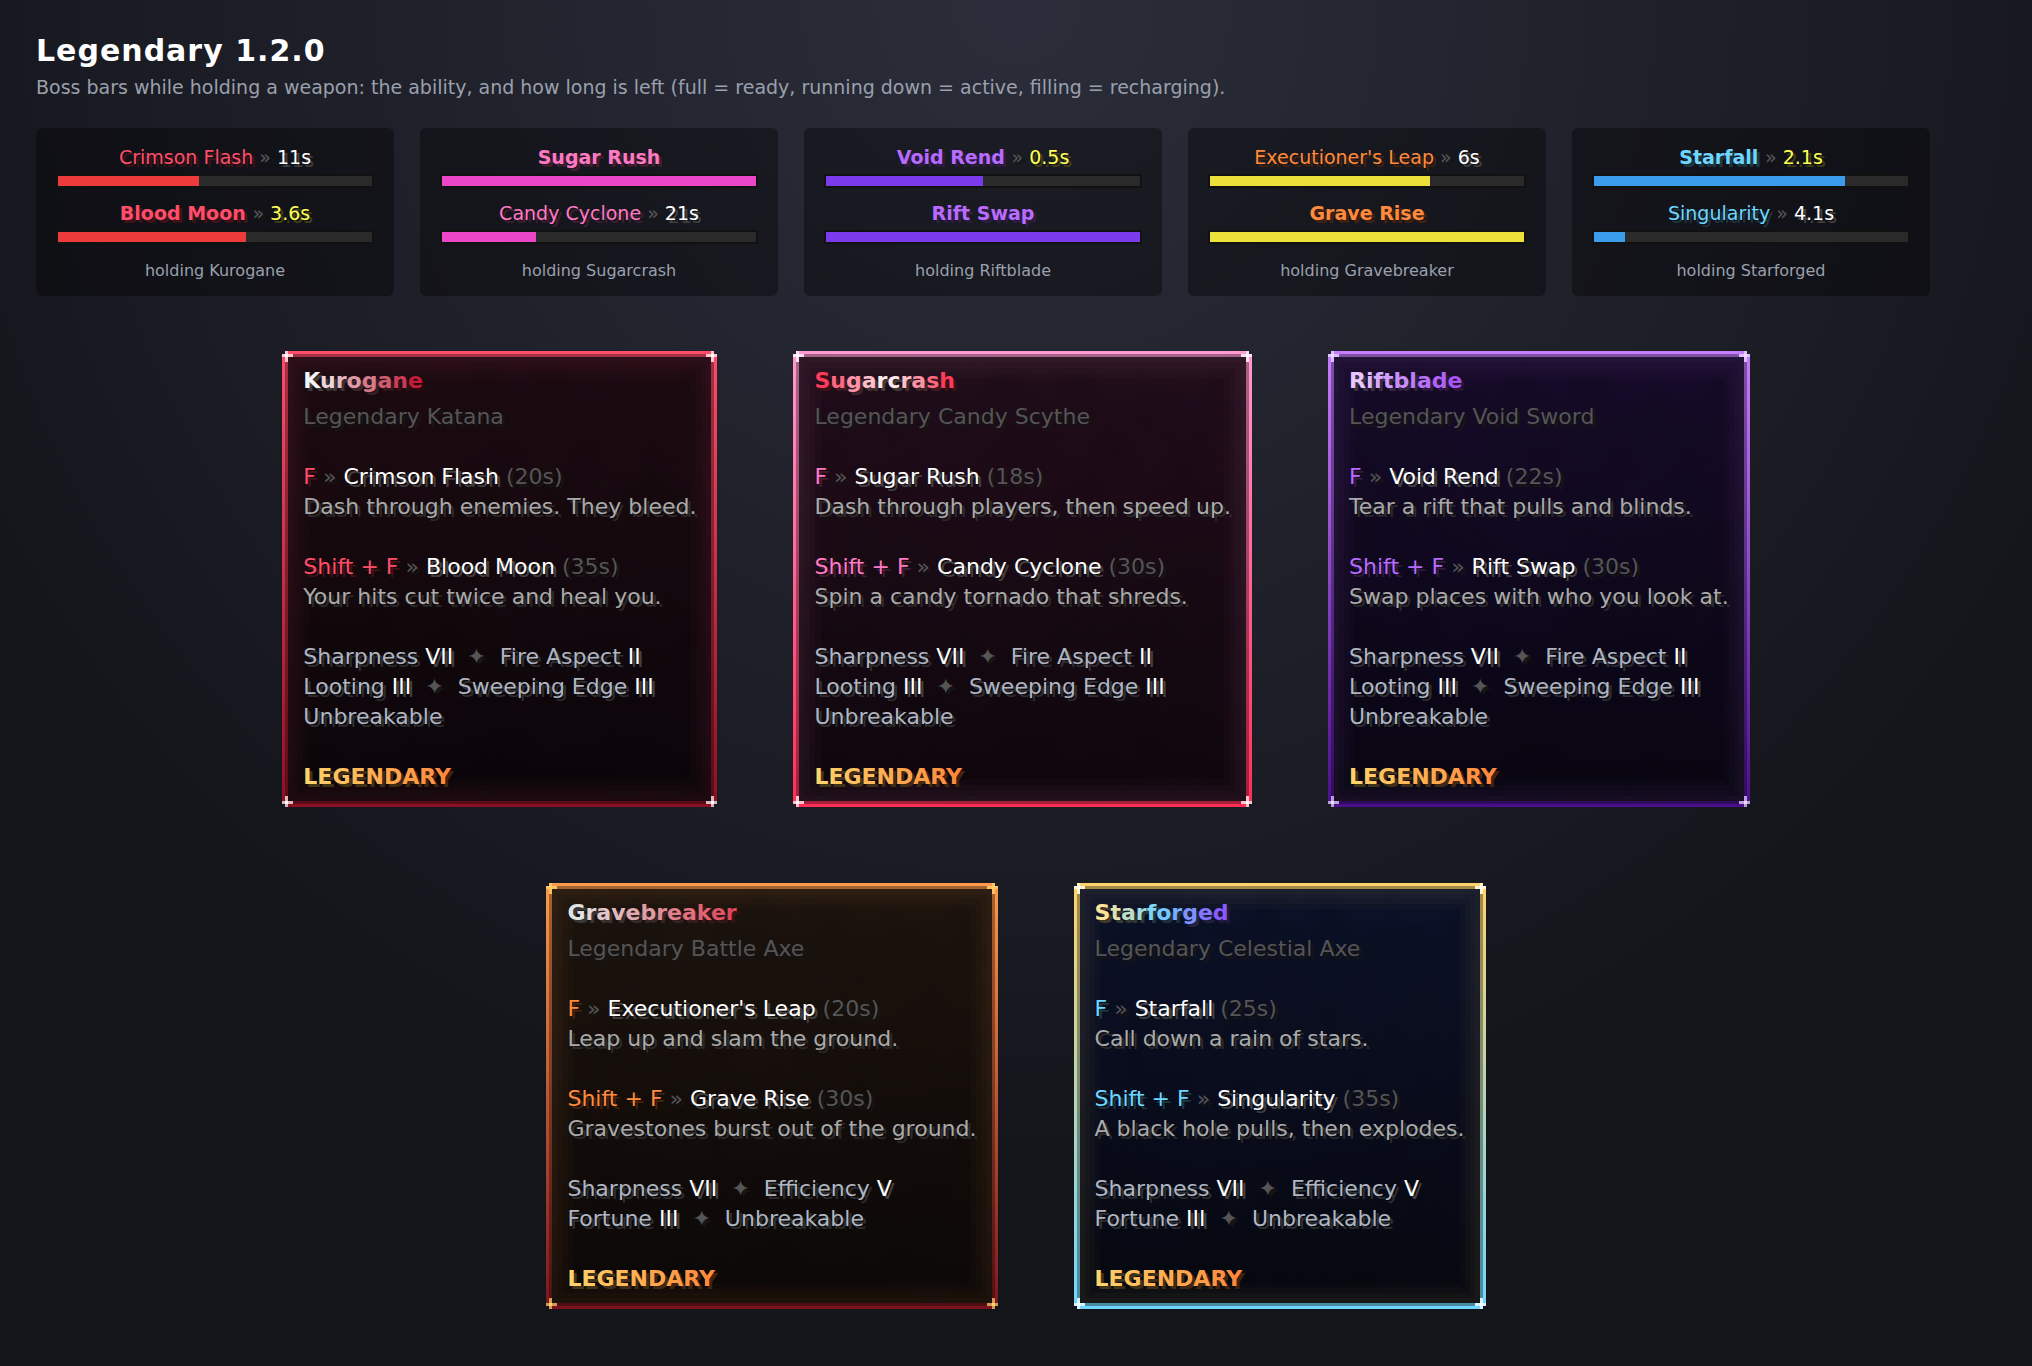
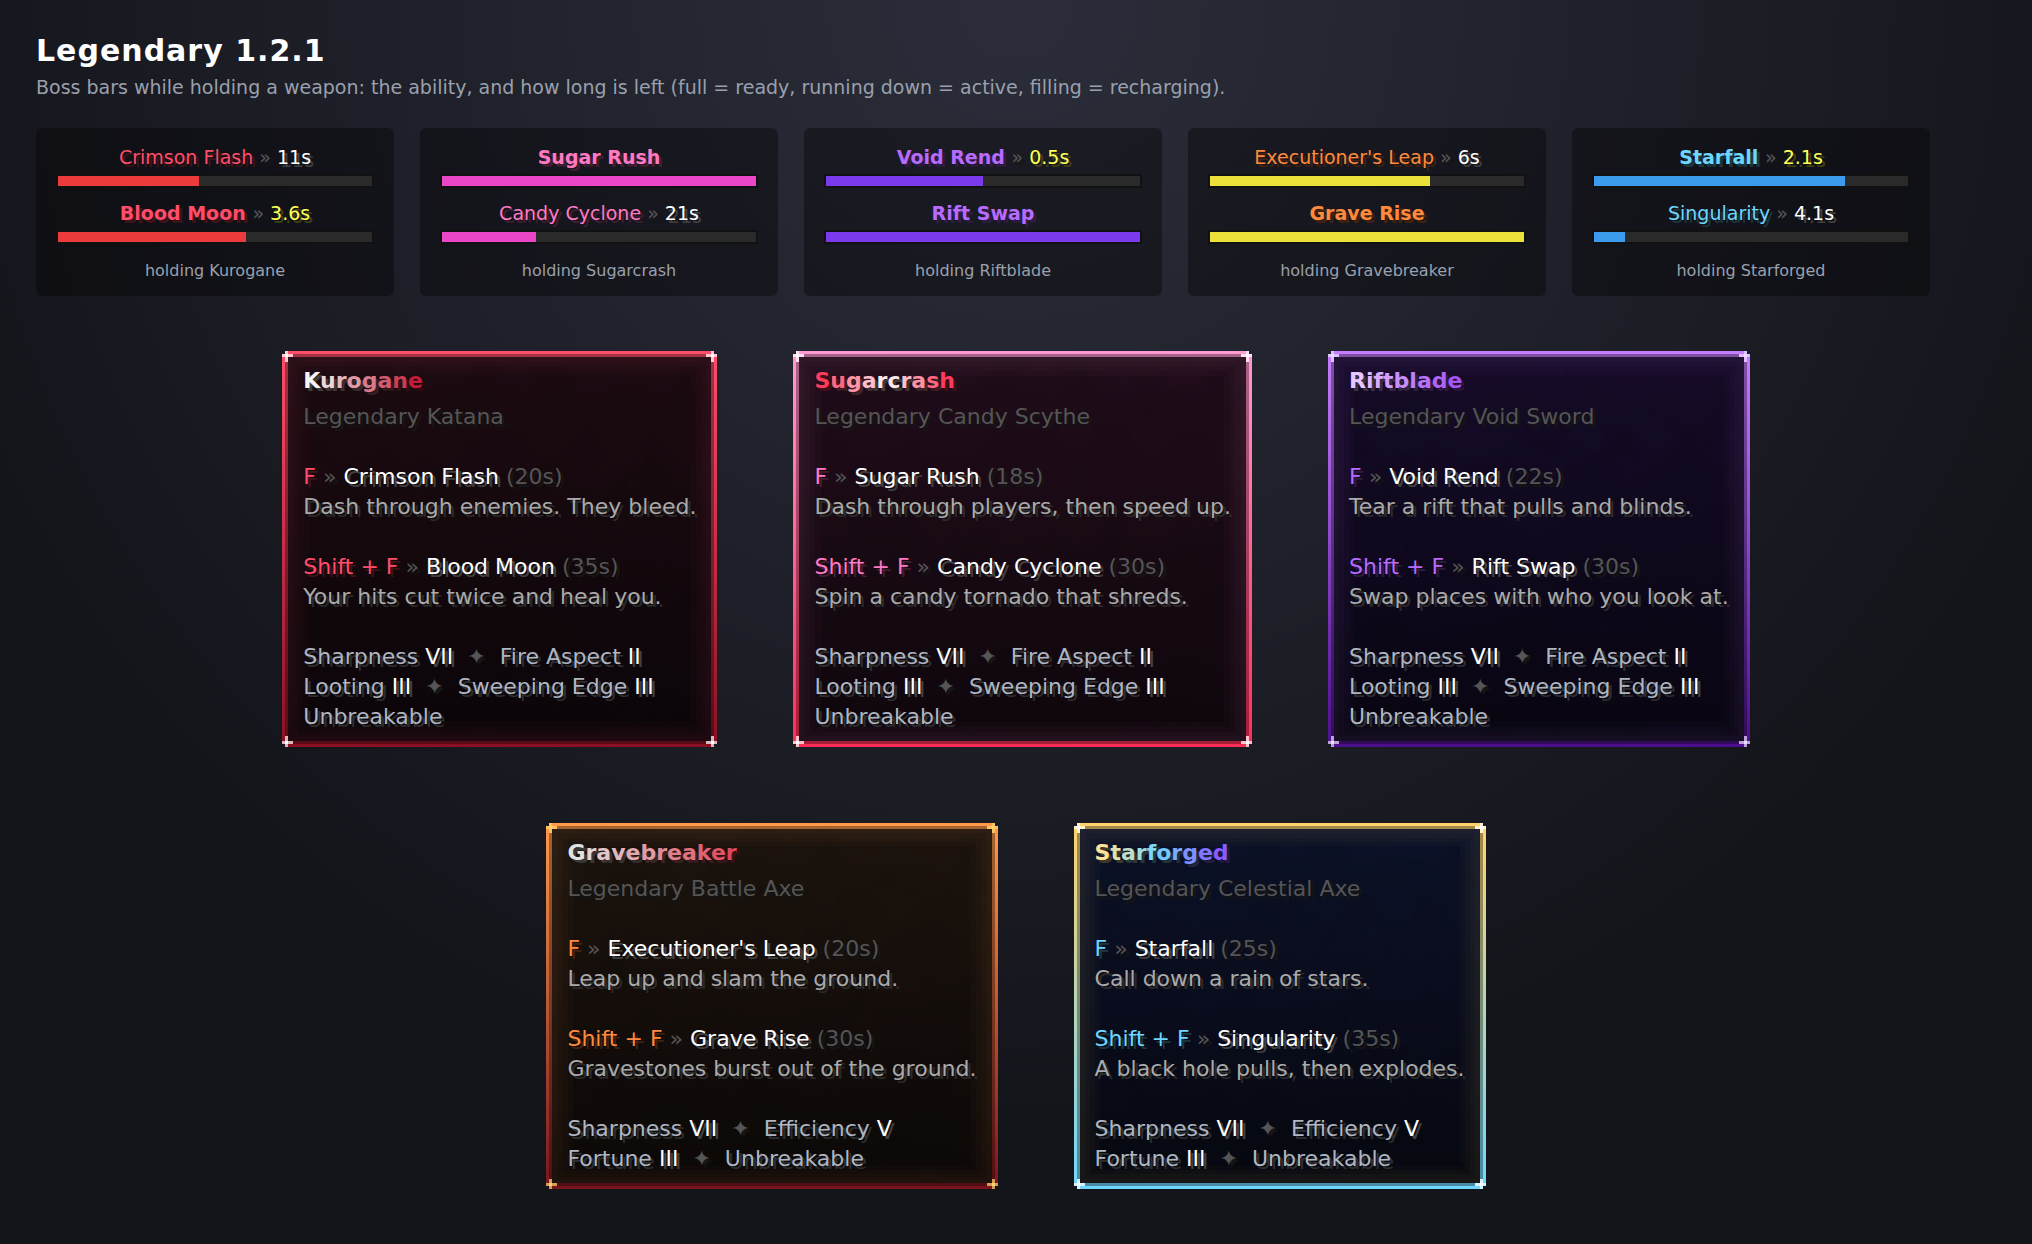
Legendary 1.2.1: no LEGENDARY line at the bottom of the weapons' lore
The lore now ends with the enchantment lines. Servers already on 1.2.0 get the
new lore on start (the 1.2.0 lore is in previous-text.yml); own lore is kept.

Claude-Session: https://claude.ai/code/session_01TN9w381VbN88rgG13wJHTN

diff --git a/legendary/src/test/java/io/github/drepfy/legendary/LegendaryTest.java b/legendary/src/test/java/io/github/drepfy/legendary/LegendaryTest.java
@@ -342,6 +342,7 @@ class LegendaryTest {
             assertTrue(lore.contains("Sharpness VII") && lore.contains("Unbreakable"), lore);
             assertTrue(lore.contains(axe ? "Efficiency V" : "Sweeping Edge III"), lore);
             assertFalse(lore.contains(WeaponItems.shortId(id(item))), "no tracking number in the lore");
+            assertFalse(lore.contains("LEGENDARY"), "no LEGENDARY line at the bottom");
             assertEquals(WeaponRecord.State.HELD, record(item).state());
             assertEquals(steve.getUniqueId(), record(item).holder());
             ids.add(id(item));
@@ -1269,6 +1270,8 @@ class LegendaryTest {
         // ...and one written by 1.1.0, before the abilities changed.
         plugin.getConfig().set("weapons.riftblade.lore", old.getStringList("v1_1_0.weapons.riftblade.lore"));
         plugin.getConfig().set("weapons.riftblade.name", old.getString("v1_1_0.weapons.riftblade.name"));
+        // ...and one written by 1.2.0, with LEGENDARY at the bottom.
+        plugin.getConfig().set("weapons.gravebreaker.lore", old.getStringList("v1_2_0.weapons.gravebreaker.lore"));
         // But this server wrote its own Starforged lore and alt message.
         plugin.getConfig().set("weapons.starforged.lore", List.of("&bMy own lore"));
         plugin.getConfig().set("messages.alt-blocked", "&cNo alts!");
@@ -1277,7 +1280,7 @@ class LegendaryTest {
 
         plugin.reload();
         List<String> lore = plugin.getConfig().getStringList("weapons.kurogane.lore");
-        assertEquals(11, lore.size(), "the new lore");
+        assertEquals(9, lore.size(), "the new lore");
         assertTrue(String.join("\n", lore).contains("{crimson-flash.name}"));
         assertEquals("&cLegendaries can't go in containers.", plugin.getConfig().getString("messages.storage-blocked"));
         assertTrue(plugin.getConfig().getStringList("weapons.sugarcrash.lore").contains(
@@ -1286,17 +1289,20 @@ class LegendaryTest {
                 "&#B76BFF{key} &8» &f{void-rend.name} &8({void-rend.cooldown})"));
         assertEquals("<gradient:#E9C6FF:#A855F7>&lRiftblade</gradient>", plugin.getConfig().getString("weapons.riftblade.name"),
                 "brighter on the dark tooltip");
+        assertEquals(9, plugin.getConfig().getStringList("weapons.gravebreaker.lore").size());
+        assertFalse(String.join("\n", plugin.getConfig().getStringList("weapons.gravebreaker.lore")).contains("LEGENDARY"));
         assertEquals(List.of("&bMy own lore"), plugin.getConfig().getStringList("weapons.starforged.lore"));
         assertEquals("&cNo alts!", plugin.getConfig().getString("messages.alt-blocked"));
         // It is saved, so it sticks after the next restart.
         org.bukkit.configuration.file.YamlConfiguration saved = org.bukkit.configuration.file.YamlConfiguration
                 .loadConfiguration(new java.io.File(plugin.getDataFolder(), "config.yml"));
-        assertEquals(11, saved.getStringList("weapons.kurogane.lore").size());
+        assertEquals(9, saved.getStringList("weapons.kurogane.lore").size());
         // Weapons already out get the new lore too, the enchantments listed two to a line.
         PlayerMock steve = player("Steve", 0, 0);
         ItemStack sword = give(steve, WeaponType.KUROGANE);
         List<String> itemLore = sword.getItemMeta().getLore().stream().map(ChatColor::stripColor).toList();
-        assertEquals(13, itemLore.size(), String.join("\n", itemLore));
+        assertEquals(11, itemLore.size(), String.join("\n", itemLore));
+        assertEquals("Unbreakable", itemLore.get(itemLore.size() - 1), "the enchantments are the last lines");
         assertTrue(itemLore.contains("F » Crimson Flash (20s)"), String.join("\n", itemLore));
         assertTrue(itemLore.contains("Sharpness VII  ✦  Fire Aspect II"), String.join("\n", itemLore));
         assertTrue(itemLore.contains("Unbreakable"), String.join("\n", itemLore));
